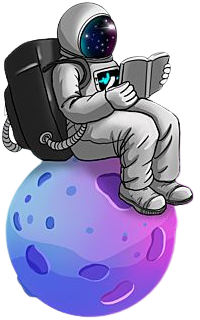
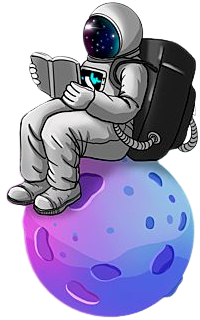
Update Home page

diff --git a/src/pages/Home/styles.js b/src/pages/Home/styles.js
@@ -1,4 +1,86 @@
 import styled from 'styled-components';
+import background from '../../assets/images/header-bg.png'
 
 export const Container = styled.section`
+    background: url(${background});
+    background-position: right;
+    background-size: cover;
+
+    min-height: 100vh;
+    padding: 0px 30px;
+    color: white;
+    display: flex;
+    flex-direction: column;
+    align-items: center;
  `;
+export const Header = styled.div`
+    display: flex;
+    flex-direction: column;
+    align-items: center;
+    gap: 2rem;
+    padding: 80px 0 50px 0;
+
+    > h1 {
+        font-size: 3rem;
+        font-weight: 700;
+
+        line-height: 1;
+        text-transform: uppercase;
+
+
+    }
+
+    > h2 {
+        font-size: 2rem;
+        font-weight: 700;
+        letter-spacing: 0.5px;
+        line-height: 1;
+        background: ${({ theme }) => theme.COLORS.GRADIENT};
+        -webkit-background-clip: text;
+        -webkit-text-fill-color: transparent;
+        text-transform: uppercase;
+
+    }
+    > p {
+        font-size: 16px;
+        letter-spacing: 0.8px;
+        line-height: 1.5em;
+        font-family: var(--ff-primary);
+        color: var(--fc-quaternary);
+        text-align: justify;
+    }
+`;
+
+export const Button = styled.button`
+    width: 50%;
+    height: 40px;
+    margin: 40px 0;
+    background: linear-gradient(90deg, rgba(170, 54, 124, 0.5), rgba(74, 47, 189, 0.5));
+    border: 1px solid rgba(244,244,244,0.2);
+    outline: none;
+    color: ${({ theme }) => theme.COLORS.WHITE};
+    border-radius: 5px;
+    font-weight: bold;
+
+`;
+
+export const Img = styled.div`
+
+    display: flex;
+    align-items: center;
+    justify-content: center;
+    animation: updown 4s linear infinite;
+    transform: rotateY(180deg);
+  
+@keyframes updown {
+    0% {
+        transform: translateY(-30px);
+    }
+    50% {
+        transform: translateY(30px);
+    }
+    100% {
+        transform: translateY(-30px);
+    }
+}
+`;

diff --git a/src/pages/Home/index.jsx b/src/pages/Home/index.jsx
@@ -1,12 +1,51 @@
 import '../../assets/translations/i18n'
 import { useTranslation } from 'react-i18next';
 
-import { Container } from "./styles";
+import Typed from 'typed.js'
+import { useEffect, useRef } from 'react';
+import astronaut from '../../assets/images/astronaut.png';
+
+import { Container, Header, Img, Button } from "./styles";
 
 export function Home(){
     const {t} = useTranslation();
+
+    const el = useRef(null);
+
+    useEffect(() => {
+      const typed = new Typed(el.current, {
+        strings: [t('header_career_01'), t('header_career_02'), t('header_career_03')],
+
+        startDelay: 300,
+        typeSpeed: 100,
+        backSpeed: 100,
+        backDelay: 100,
+        loop: true
+      });
+  
+
+      return () => {
+        typed.destroy();
+      };
+    }, []);
+
+    
     return(
         <Container>
+            <Header>
+                <h1>{t('header_title')}</h1>
+                <h2>
+                    <span ref={el}></span>
+                </h2>
+                <p>{t('header_description')}</p>
+            </Header>
+        <Img>
+          <img src={astronaut} alt="Astronaut reading"/>
+        </Img>
+
+        <Button>
+            View more
+        </Button>
 
         </Container>
     )
